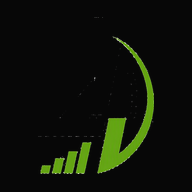
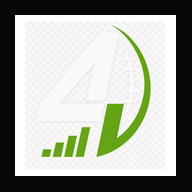
Apply corrected Fourth Down header branding

diff --git a/branding.css b/branding.css
@@ -1,116 +1,74 @@
-/* Fourth Down brand asset integration */
-.branded-header {
-  min-height: 82px;
+/* Corrected Fourth Down header branding */
+.corrected-brand-header {
+  min-height: 78px;
 }
 
-.branded-lockup {
-  min-width: 0;
-  gap: 14px;
+.corrected-brand-header .brand {
+  gap: 12px;
 }
 
-.brand-icon-shell {
-  width: 54px;
-  height: 54px;
-  flex: 0 0 54px;
+.corrected-brand-icon-shell {
+  width: 48px;
+  height: 48px;
+  flex: 0 0 48px;
   display: grid;
   place-items: center;
   overflow: hidden;
-  border: 1px solid rgba(116, 190, 20, .72);
-  border-radius: 15px;
-  background: #090909;
-  box-shadow: 0 10px 30px rgba(94, 168, 10, .25);
+  border: 1px solid rgba(116, 190, 20, .68);
+  border-radius: 13px;
+  background: #ffffff;
+  box-shadow: 0 8px 24px rgba(94, 168, 10, .22);
 }
 
-.fourth-down-header-icon {
-  width: 47px;
-  height: 47px;
+.corrected-brand-icon {
+  width: 46px;
+  height: 46px;
   display: block;
-  object-fit: contain;
+  object-fit: cover;
+  object-position: center;
 }
 
-.fourth-down-header-wordmark {
-  width: clamp(150px, 18vw, 235px);
-  max-height: 48px;
+.corrected-brand-copy strong,
+.corrected-brand-copy small {
   display: block;
-  object-fit: contain;
-  object-position: left center;
 }
 
-.home-brand-banner {
-  position: relative;
-  overflow: hidden;
-  display: flex;
-  align-items: center;
-  justify-content: center;
-  min-height: 170px;
-  padding: 24px 34px;
-  border: 1px solid rgba(116, 190, 20, .34);
-  border-radius: 20px;
-  background:
-    radial-gradient(circle at 50% 0%, rgba(116, 190, 20, .12), transparent 48%),
-    linear-gradient(145deg, rgba(18,18,18,.97), rgba(5,5,5,.99));
-  box-shadow: 0 22px 60px rgba(0,0,0,.34);
+.corrected-brand-copy strong {
+  color: #ffffff;
+  font-size: 17px;
 }
 
-.home-brand-banner::before {
-  content: "";
-  position: absolute;
-  inset: 0;
-  pointer-events: none;
-  background: linear-gradient(105deg, transparent 0 42%, rgba(255,255,255,.035) 48%, transparent 54% 100%);
+.corrected-brand-copy small {
+  margin-top: 3px;
+  color: #74be14;
+  font-size: 9px;
+  font-weight: 850;
+  letter-spacing: .17em;
 }
 
-.home-brand-logo {
-  position: relative;
-  z-index: 1;
-  width: min(520px, 82vw);
-  max-height: 128px;
-  display: block;
-  object-fit: contain;
-  filter: drop-shadow(0 14px 22px rgba(0,0,0,.52));
-}
-
-.branded-favourite-hero {
-  margin-top: 0;
-}
-
-@media (max-width: 700px) {
-  .branded-header {
-    min-height: 70px;
+@media (max-width: 620px) {
+  .corrected-brand-header {
+    min-height: 68px;
   }
 
-  .brand-icon-shell {
-    width: 46px;
-    height: 46px;
-    flex-basis: 46px;
-    border-radius: 13px;
+  .corrected-brand-icon-shell {
+    width: 43px;
+    height: 43px;
+    flex-basis: 43px;
+    border-radius: 12px;
   }
 
-  .fourth-down-header-icon {
-    width: 40px;
-    height: 40px;
+  .corrected-brand-icon {
+    width: 41px;
+    height: 41px;
   }
 
-  .fourth-down-header-wordmark {
-    width: 145px;
+  .corrected-brand-copy strong {
+    font-size: 15px;
   }
 
-  .home-brand-banner {
-    min-height: 130px;
-    padding: 18px;
-  }
-
-  .home-brand-logo {
-    max-height: 96px;
-  }
-}
-
-@media (max-width: 430px) {
-  .fourth-down-header-wordmark {
-    width: 118px;
-  }
-
-  .header-status {
-    display: none;
+  .corrected-brand-copy small {
+    font-size: 7px;
+    letter-spacing: .13em;
   }
 }

diff --git a/src/components/Header.jsx b/src/components/Header.jsx
@@ -1,20 +1,19 @@
 export default function Header({ onHome }) {
   return (
-    <header className="header premium-header branded-header">
-      <button type="button" className="brand branded-lockup" onClick={onHome}>
-        <span className="brand-icon-shell">
+    <header className="header premium-header corrected-brand-header">
+      <button type="button" className="brand" onClick={onHome}>
+        <span className="corrected-brand-icon-shell">
           <img
-            src="/branding/fourth-down-icon.png"
+            src="/branding/fourth-down-header-icon.png"
             alt=""
-            className="fourth-down-header-icon"
+            className="corrected-brand-icon"
           />
         </span>
 
-        <img
-          src="/branding/fourth-down-wordmark.png"
-          alt="Fourth Down"
-          className="fourth-down-header-wordmark"
-        />
+        <span className="corrected-brand-copy">
+          <strong>Fourth Down</strong>
+          <small>ANALYZE. INSIGHT. WIN.</small>
+        </span>
       </button>
 
       <div className="header-status" aria-label="Data status">
